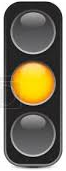
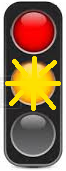
dod opis semafora DN

diff --git a/dn_03.htm b/dn_03.htm
@@ -40,6 +40,7 @@
                 <li><a href="#L3">Opis pulpitów sterujących</a>
                 <li><a href="#L4">Tryb pracy automatycznej</a></li>
                 <li><a href="#L5">Obsługa stacji roboczej SOST1.1</a></li>
+                <li><a href="#L6">Semafor</a></li>
             </ol>
             <br>
             <hr>
@@ -719,6 +720,29 @@
                     poszczególnych
                     napędów, jak również odpowiedzi (tacho, impulsator) i stan fotokomórek rejonu.</p>
                 <img class="foto" src="img/dn_i10.png">
+                <hr>
+                <li><a id="L6"></a>Semafor</a><a href="#L0"><img style="float:right;" src="img/return.png"></a></li>
+                <p>Na mostku ST1.1 jest zabudowany semafor wskazujący Operatorowi możliwość wjazdu kęsem do klatki DN.
+                    Znaczenie odpowiedniej sygnalizacji jest opisane w tabeli:
+                </p>
+                <table>
+                    <tr>
+                        <th>Widok semafora</th>
+                        <th>Opis</th>
+                    </tr>
+                    <tr>
+                        <td><img src="img/dn_i14.png"></td>
+                        <td>Pozwolenie na wjazd. Kolor zielony jest włączany, gdy po zmianie przepustu śruba (w trybie auto) osiągnie pozycję zadaną (tolerancja 15impulsów) oraz klatka DN osiągnie co najmniej połowę zadanych obrotów (odpowiedni kierunek, prędkość chwytu).Po wciśnięciu zmiany przepustu zmienia się na kolor czerwony</td>
+                    </tr>
+                    <tr>
+                        <td><img src="img/dn_i16.png"></td>
+                        <td>Zakaz wjazdu. Wyświetlany po zmianie przepustu, gdy śruba nie osiągnęła pozycji lub DN nie osiągnął obrotów (opis powyżej) </td>
+                    </tr>
+                    <tr>
+                        <td><img src="img/dn_i15.png"></td>
+                        <td>Zakaz wjazdu. Migający żółty pojawi się gdy naciśnięto co najmniej dwa razy przycisk zmiany przepustu w czasie 2 sekund. Ostrzega przed ewentualnym złym ustawieniu numeru przepustu. Jeśli Operator wykonał to świadomie - można skontrolować pozycję i jechać</td>
+                    </tr>
+                </table>
             </ol>
         </div>
 
